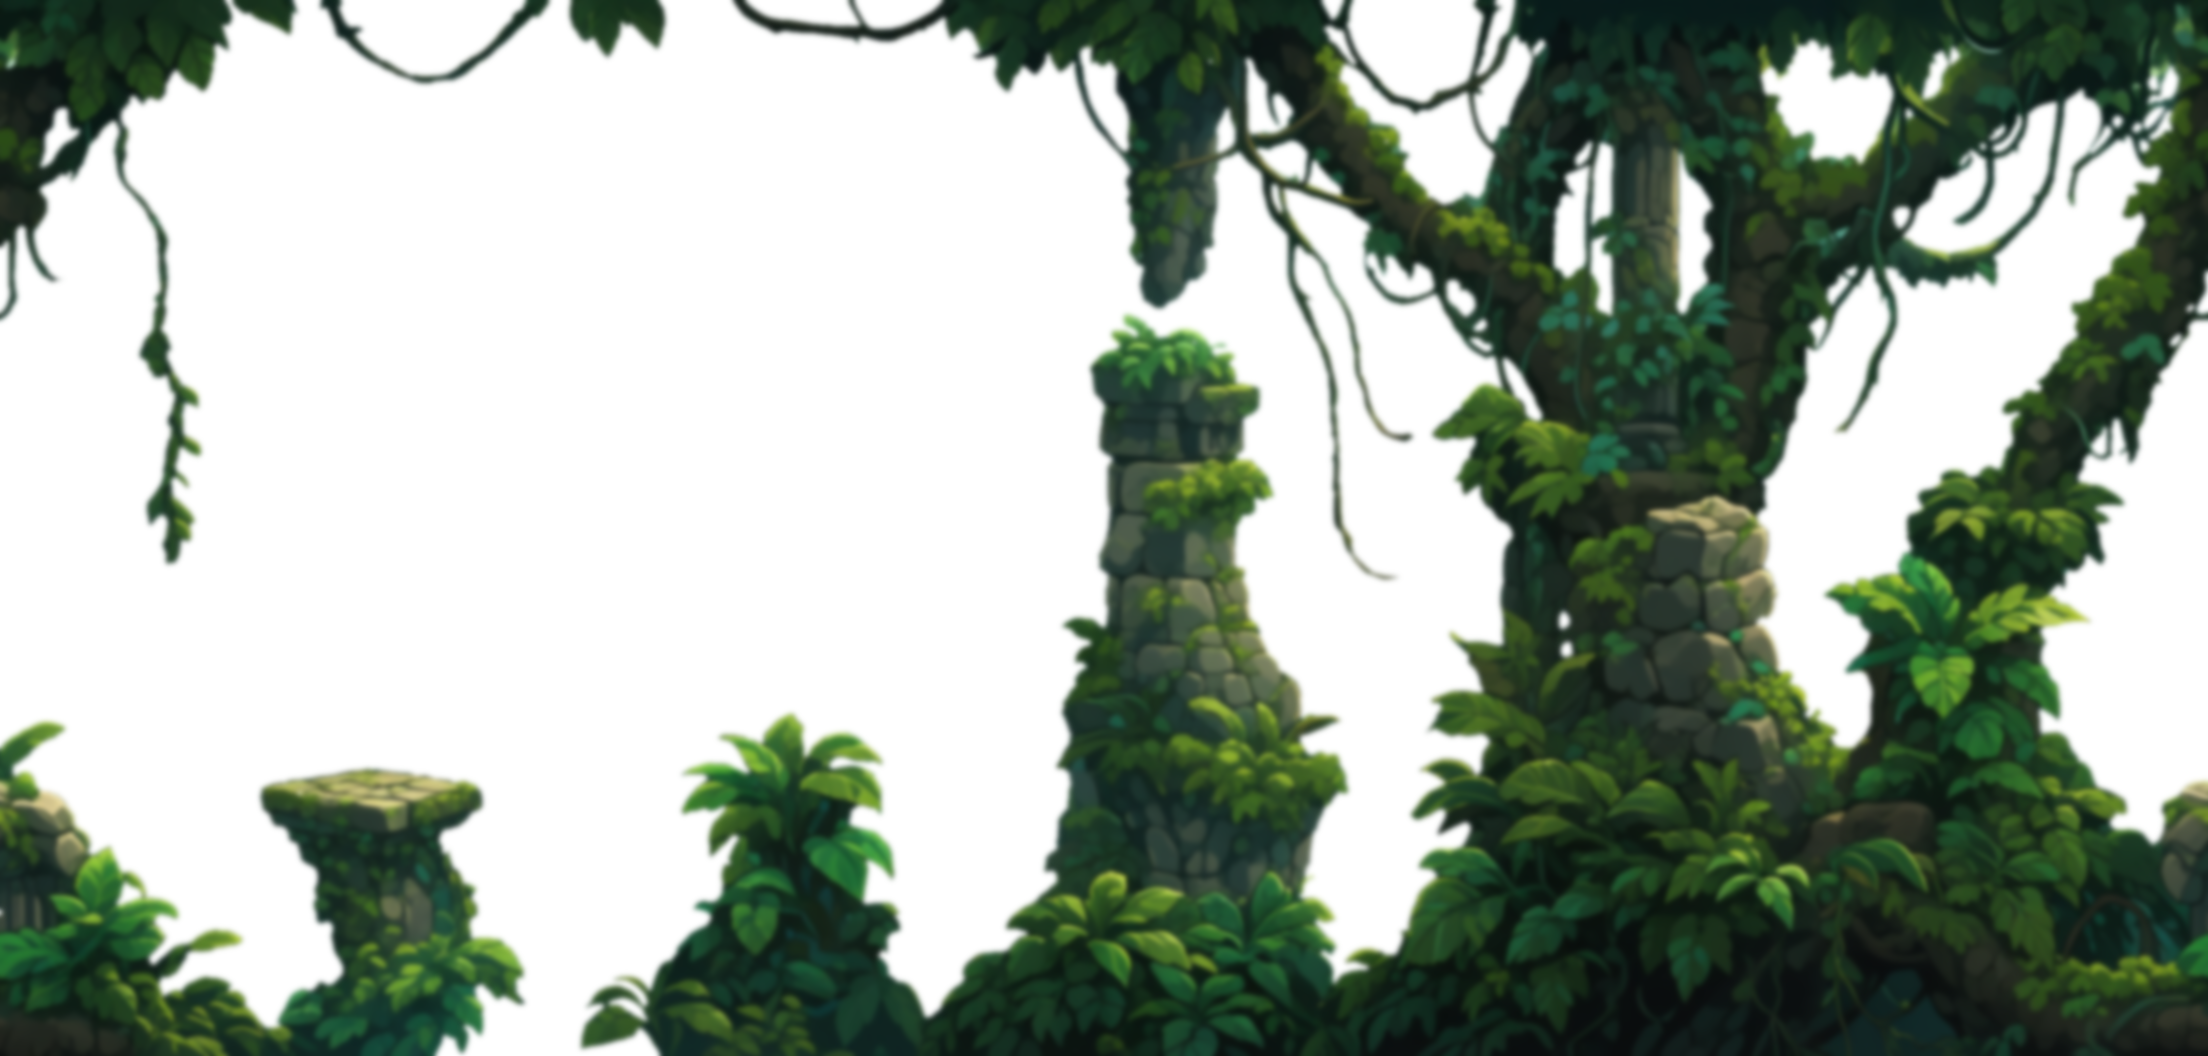
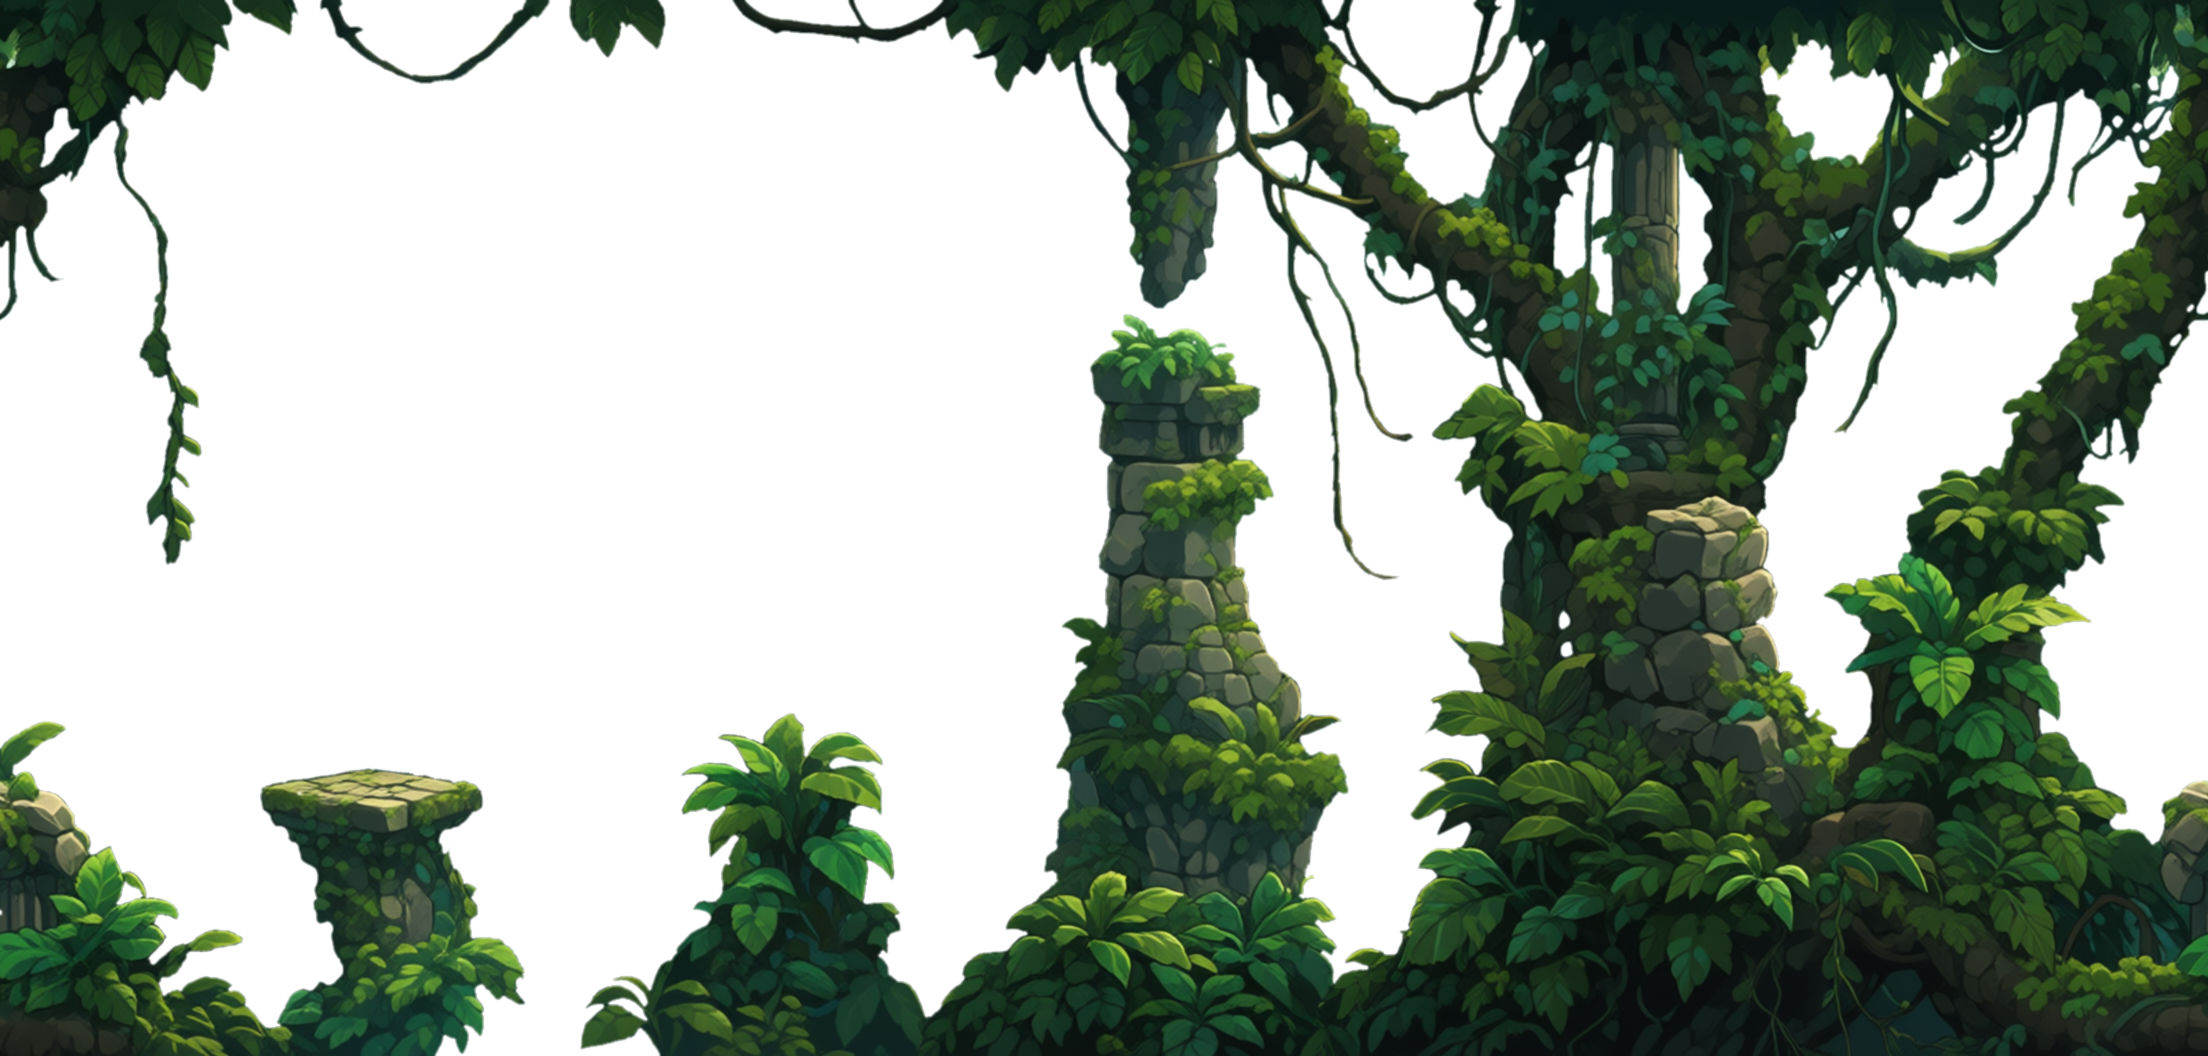
Blur the far layers, leave the near ones nearly sharp
Reverses how the three parallax pairs were tuned. They shipped with the near
layer as the softest thing on screen, on the theory that a cut-out moving at
2.7x over the gate lanes needed the most help receding. That was backwards:
softness is the main cue telling the eye which layer is further away, so
blurring the near layer hardest flattened the very depth the second layer
was added to create. Far layers go soft, near layers stay sharp — depth of
field the way a camera does it.

Near sigma is now one shared $NearSigma rather than three per-mode values,
because a light touch only means something if each painting keeps its own
crispness. Matching the near layers onto a common sharpness, the way the far
layers are matched, is what produced the old spread: OCEAN's was being
blurred five times harder than SKY's (4.0 against 1.0) purely to drag them
to the same number. They now land where their art puts them — SKY 2.33,
JUNGLE 5.85, OCEAN 10.74 — against far layers held at 1.70 to 2.53.

0.5 rather than 0 because a cut-out still wants its alpha edge taken off, or
the silhouette sits on the far layer as a hard line. It is also the floor:
the kernel runs to ceil(3*sigma), so at 0.3 it collapses to a near-delta and
every near layer measures its raw sharpness back, unchanged.

No far layer moved, and no DREAM pixel — this is six near-layer files
re-baked. -SelfTest now also warns if $NearSigma ever creeps up to meet a
[…]

diff --git a/CLAUDE.md b/CLAUDE.md
@@ -132,7 +132,17 @@ dark fringe. `blur_background.ps1` takes a per-file `CutOut` flag for this:
 no alpha edge to soften), `$true` premultiplies, blurs all four channels,
 then divides alpha back out.
 
-Blur strength is **measured, not eyeballed**. `blur_background.ps1
+**Far layers are blurred; near layers are barely touched.** That is depth of
+field the way a camera does it, and it is deliberate — the pairs first
+shipped the other way round, with the near layer as the softest thing on
+screen, and it flattened the parallax, because softness is the main cue
+telling the eye which layer is further away. Every near layer shares
+`$NearSigma` (0.5) so each painting keeps its own crispness; only the far
+layers are matched onto a common softness. 0.5 is also the floor — the
+kernel runs to `ceil(3*sigma)`, so at 0.3 it collapses to a near-delta and
+does nothing at all.
+
+Far-layer strength is **measured, not eyeballed**. `blur_background.ps1
 -Sharpness` reports the mean |Laplacian| over opaque RGB for every committed
 blur, **measured after resampling to the 854px height the game draws it at**
 — not on the source pixels. That distinction is load-bearing: SKY's far
@@ -142,6 +152,11 @@ one than the other. `-SelfTest` re-derives every file from its source and
 diffs it against what is committed — anything but a residual around 1/255
 means the sigma table and the PNGs have drifted apart. The table is the only
 record of how each file was made, so keep it in step.
+
+The metric is a proxy, not a verdict: it averages over the whole image, so a
+painting that is mostly flat with a few hard-outlined structures scores
+softer than it looks. OCEAN's far layer is the one row where that was worth
+overruling; the table says so.
 
 Blur is not a fix for a background that **competes in shape** with gameplay.
 SKY's far layer paints stone arches in the same white-and-gold-with-a-blue-gem
